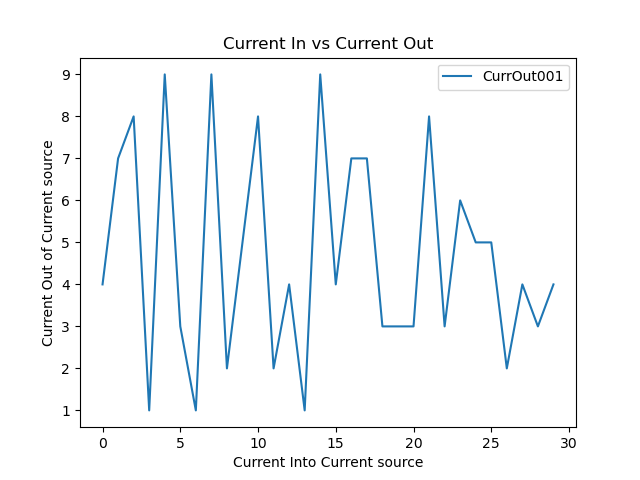
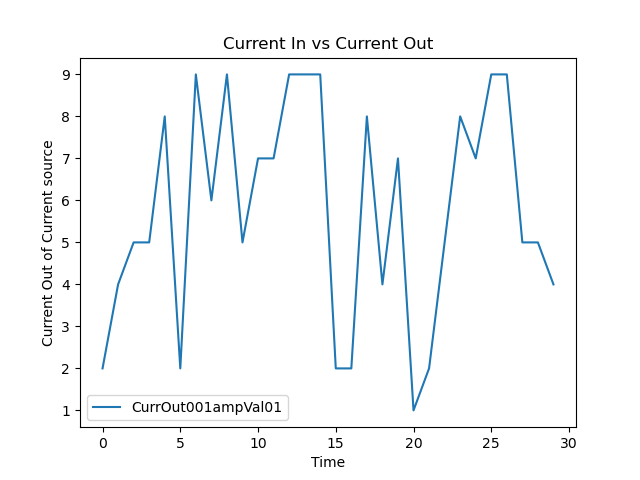
update

diff --git a/Python/picoTest.py b/Python/picoTest.py
@@ -30,6 +30,7 @@ def write_cmd(x):
     time.sleep(0.05)
 
 csData = pd.DataFrame(data=[], index=[], columns=[])           #create dataframe
+pltData = pd.DataFrame(data=[], index=[], columns=[])
 # bk.remoteMode(True, bkPS) #set remote mode for power supply
 # bk.setMaxVoltage(3.33, bkPS)   #set max voltage for PS
 # bk.outputOn(True, bkPS)     #turn the powersupply on
@@ -42,17 +43,19 @@ counter = 0
 voltIn = 0
 currOut = 0
 commandTX = 0
+power = 8
 
 colNum = 2      #int(input('How many colums do you want to test?'))
 currentInc = 11   #int(input('How many steps for current?'))
 voltInc = 34      #int(input('How many steps for Voltage?'))
 
 #smu.apply_current(smu.smua, 0)
-cOut = "CurrOut000"            
-vOut = "VoltOut001"
-cIn = "CurrIn"
+cOut = "CurrOut000" 
+cIn = "CurrIn000"
+ampVal = "ampVal01"
+pltX = "pltX"
 picLoc = "C:\\Users\\jpew\\AppData\\Local\\miniconda3\\envs\\testequ\\RTSeval\\Python\\Data\\csCharacterization\\"
-picName = "cs001"
+picName = "cs000"
 
 time.sleep(1)
 colSelect = 1 
@@ -62,6 +65,9 @@ for c in range(colNum):
         cOut = re.sub(r'[0-9]+$',
              lambda x: f"{str(int(x.group())+1).zfill(len(x.group()))}",    # increments the number in the column name
              cOut)
+        cIn = re.sub(r'[0-9]+$',
+             lambda x: f"{str(int(x.group())+1).zfill(len(x.group()))}",    # increments the number in the column name
+             cIn)
         picName = re.sub(r'[0-9]+$',
              lambda x: f"{str(int(x.group())+1).zfill(len(x.group()))}",    # increments the number in the column name
              picName)
@@ -74,25 +80,41 @@ for c in range(colNum):
     print('pico selected column: ' + str(columnRX))
     RFID = pico.read_until()                                                      # checks if pico is done with shift register
     if RFID == b'1\r\n':
-        currIn = 0.000005                                                   # the current applied to currentSource
-        # smu.apply_current(smu.smua, currIn)
-        startT = (time.perf_counter())
-        while time.perf_counter() - startT <= 3:                # checks if the run time has reached 60 sec
-            csData.at[row, str(cIn)] = row
-            csData.at[row, str(cOut)] = random.randint(1, 9)
-            print(time.perf_counter()-startT)
-            row = row + 1
-            time.sleep(.1)
-        csData.plot(x=cIn, y=cOut)
+        for a in range(5):
+            currIn = 1 / pow(10, power)                                                    # the current applied to currentSource
+            # smu.apply_current(smu.smua, currIn)
+            startT = (time.perf_counter())
+            while time.perf_counter() - startT <= 3:                # checks if the run time has reached 60 sec
+                if counter == 0:
+                    csData.at[row, str(cIn)] = row/10
+                csData.at[row, str(cOut+ampVal)] = random.randint(1, 9)
+                pltData.at[row, str(pltX+ampVal)] = row/10
+                pltData.at[row, str(pltX+ampVal)] = csData.at[row, str(cOut+ampVal)]
+                print(time.perf_counter()-startT)
+                row = row + 1
+                time.sleep(.1)
+            if a < 4:
+                ampVal = re.sub(r'[0-9]+$',
+                lambda x: f"{str(int(x.group())+1).zfill(len(x.group()))}",    # increments the number in the column name
+                ampVal)
+                # pltX = re.sub(r'[0-9]+$',
+                # lambda x: f"{str(int(x.group())+1).zfill(len(x.group()))}",    # increments the number in the column name
+                # pltX)
+            row = 0
+            
+        ampVal = "ampVal01"
+        print(pltX)
+        pltData.plot(subplots=[(pltX+'ampVal01',(pltX+'ampVal01')), ((pltX+'ampVal02'),(pltX+'ampVal02')),
+            ((pltX+'ampVal03'),(pltX+'ampVal03')), ((pltX+'ampVal04'),(pltX+'ampVal04')), ((pltX+'ampVal05'),(pltX+'ampVal05'))])
+        
         plt.title("Current In vs Current Out")
-        plt.xlabel("Current Into Current source")
+        plt.xlabel("Time")
         plt.ylabel("Current Out of Current source")
         plt.savefig(str(picLoc) + str(picName) + '.png')
         fig = plt.show(block = False)
         plt.pause(3)
         plt.close(fig)
     RFID = b''
-    row = 0
     counter = counter + 1    
     colSelect = colSelect + 1
     time.sleep(.2)

diff --git a/Python/csChar.py b/Python/csChar.py
@@ -41,7 +41,8 @@ counter = 0
 voltIn = 0
 currOut = 0
 commandTX = 0
-
+colSelect = 1
+power = 8
 colNum = 256      #int(input('How many colums do you want to test?'))
 currentInc = 11   #int(input('How many steps for current?'))
 voltInc = 34      #int(input('How many steps for Voltage?'))
@@ -50,13 +51,12 @@ smu.apply_current(smu.smua, 0)
 cOut = "CurrOut000"           
 vOut = "VoltOut001"
 cIn = "CurrIn"
+ampVal = "ampVal01"
 picLoc = "~/miniconda3/envs/testequ/RTSeval/Python/Data/"
 picName = "cs001"
 
 time.sleep(1)
-colSelect = 1
 for c in range(colNum):
-
     if counter > 0:
         cOut = re.sub(r'[0-9]+$',
              lambda x: f"{str(int(x.group())+1).zfill(len(x.group()))}",    # increments the number in the column name
@@ -71,25 +71,29 @@ for c in range(colNum):
     column = write_cmd(str(colSelect))
     columnRX = pico.read_until()
     print('pico selected column: ' + str(columnRX))
-    RFID = pico.read_until()                                                # checks if pico is done with shift register
-    commandRX = RFID.decode()
+    RFID = pico.read_until() 
     if RFID == b'1\r\n':
-        currIn = 0.000005                                                   # the current applied to currentSource
-        smu.apply_current(smu.smua, currIn)
-        startT = time.perf_counter()
-        while time.perf_counter() - startT <= 60:                 # checks if the run time has reached 60 sec
-            csData.at[row, str(cIn)] = smu.smua.measurei()
-            csData.at[row, str(cOut)] = smu.smub.measurei()
-            row = row + 1
-            time.sleep(.1)
-        csData.plot(x=cIn, y=cOut)
-        plt.title("Current In vs Current Out")
-        plt.xlabel("Current Into Current source")
-        plt.ylabel("Current Out of Current source")
-        plt.savefig(str(picLoc) + str(picName) + '.png')
-        fig = plt.show(block = False)
-        plt.pause(3)
-        plt.close(fig)
+        for a in range(5):
+            currIn = 1 / pow(10, power)                                                   # the current applied to currentSource
+            smu.apply_current(smu.smua, currIn)
+            startT = time.perf_counter()
+            while time.perf_counter() - startT <= 60:
+                csData.at[row, str(cIn + ampVal)] = smu.smua.measurei()
+                csData.at[row, str(cOut + ampVal)] = smu.smub.measurei()
+                row = row + 1
+                time.sleep(.1)
+            csData.plot(x=(cIn+ampVal), y=(cOut+ampVal))
+            ampVal = re.sub(r'[0-9]+$',
+            lambda x: f"{str(int(x.group())+1).zfill(len(x.group()))}",    # increments the number in the column name
+                    ampVal)
+            power = power - 1
+            plt.title("Current In vs Current Out")
+            plt.xlabel("Current Into Current source")
+            plt.ylabel("Current Out of Current source")
+            plt.savefig(str(picLoc) + str(picName) + '.png')
+            fig = plt.show(block = False)
+            plt.pause(3)
+            plt.close(fig)
     RFID = b''
     row = 0
     counter = counter + 1
